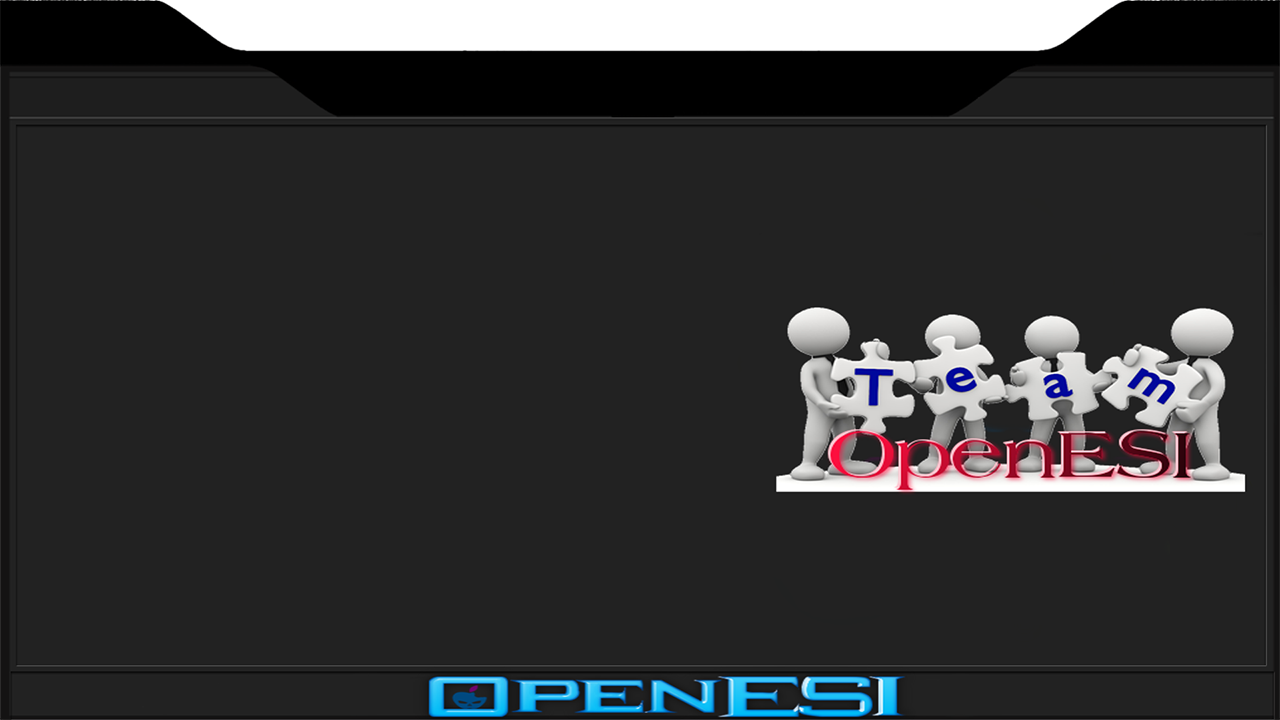
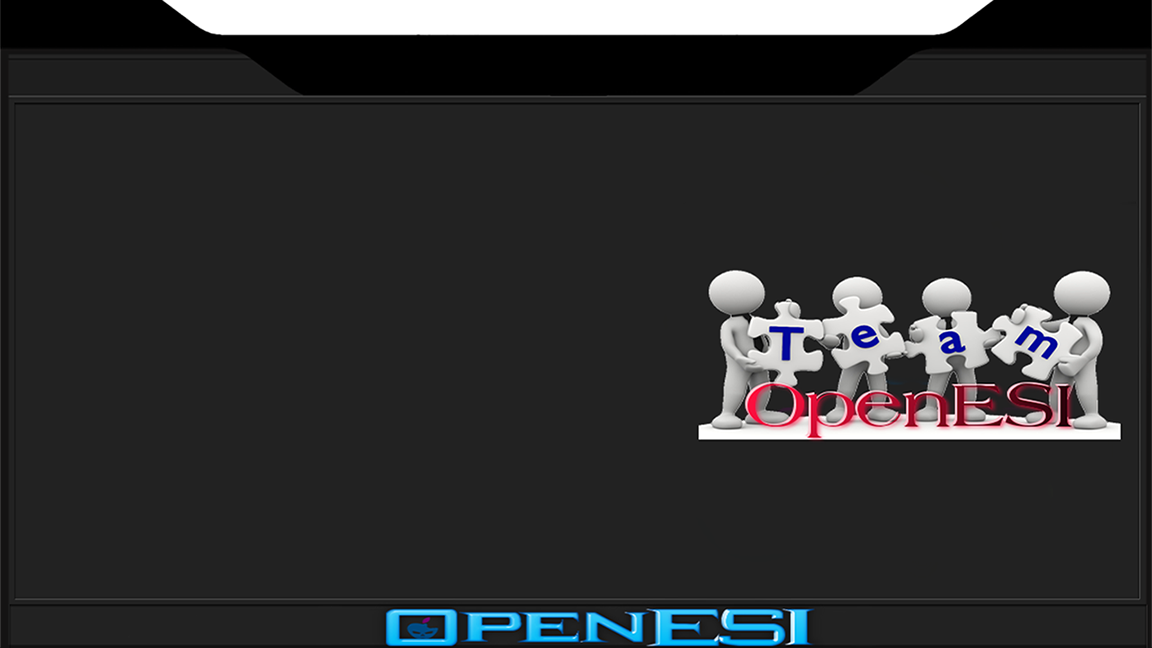
Update png

diff --git a/usr/lib/enigma2/python/Plugins/Extensions/ExtraAddonss/plugin.py b/usr/lib/enigma2/python/Plugins/Extensions/ExtraAddonss/plugin.py
@@ -26,9 +26,9 @@ folder = fold + '/picon'
 if not os.path.exists(folder):
     os.system('mkdir ' + folder)
 currversion = '1.0'
-host = 'aHR0cDovL3d3dy5vcGVuZXNpLmV1L3BhbmVsYWRkb24ueG1s='
+host = 'aHR0cDovL3d3dy5vcGVuZXNpLmV1L3BhbmVsYWRkb25zcy54bWw='
 hostxml = base64.b64decode(host)
[2 lines of base64/hex data omitted]
 ipk = base64.b64decode(ipkurl)
 
 def updateable():
@@ -53,16 +53,16 @@ updateable()
 class addonsupdatesScreen(Screen):
     skin = '''
     <screen name="addonsupdatesScreen" position="center,center" size="1280,720" title="ExtraAddonss" backgroundColor="transparent" flags="wfNoBorder">
-    <widget name="text" position="24,124" size="787,475" font="Regular;22" />
-    <ePixmap position="center,0" size="1280,720" zPosition="-10" pixmap="/usr/lib/enigma2/python/Plugins/Extensions/ExtraAddonss/hd/Addons_news.png" transparent="1" alphatest="on" />
-    <widget source="Title" render="Label" position="179,44" size="916,63" font="Regular; 48" transparent="1" halign="center" valign="center" zPosition="11" />
-    <widget source="global.CurrentTime" render="Label" position="1008,40" size="226,74" font="Regular; 40" valign="center" halign="right" transparent="1" zPosition="1">
+    <widget name="text" position="84,149" size="787,475" font="Regular;22" />
+    <ePixmap position="70,35" size="1149,646" zPosition="-10" pixmap="/usr/lib/enigma2/python/Plugins/Extensions/ExtraAddonss/hd/Addons_news.png" transparent="1" alphatest="on" />
+    <widget source="Title" render="Label" position="142,61" size="916,63" font="Regular; 48" transparent="1" halign="center" valign="center" zPosition="11" />
+    <widget source="global.CurrentTime" render="Label" position="959,70" size="226,74" font="Regular; 40" valign="center" halign="right" transparent="1" zPosition="1">
     <convert type="ClockToText">Format:%H:%M</convert>
     </widget>
-    <widget source="global.CurrentTime" render="Label" position="12,63" size="340,37" transparent="1" zPosition="1" font="Regular; 24" valign="center" halign="left">
+    <widget source="global.CurrentTime" render="Label" position="80,87" size="340,37" transparent="1" zPosition="1" font="Regular; 24" valign="center" halign="left">
         <convert type="ClockToText">Date</convert>
     </widget>
-    <eLabel name="" position="90,669" size="145,50" font="Regular; 28" valign="center" halign="center" text="Exit" zPosition="2" transparent="1" />
+    <eLabel name="" position="134,635" size="145,50" font="Regular; 28" valign="center" halign="center" text="Exit" zPosition="2" transparent="1" />
     </screen>
 
     '''
@@ -102,16 +102,16 @@ class addonsupdatesScreen(Screen):
 class AboutScreen(Screen):
     skin = '''
     <screen flags="wfNoBorder" name="AboutScreen" position="center,center" size="1280,720" title="ExtraAddonss" backgroundColor="transparent">
-    <widget name="text" position="24,124" size="787,475" font="Regular;22" zPosition="1" />
-    <ePixmap position="0,0" size="1280,720" zPosition="-10" pixmap="/usr/lib/enigma2/python/Plugins/Extensions/ExtraAddonss/hd/Addons_news.png" transparent="1" alphatest="on" />
-    <widget source="Title" render="Label" position="179,44" size="916,63" font="Regular; 48" transparent="1" halign="center" valign="center" zPosition="11" />
-    <widget source="global.CurrentTime" render="Label" position="1008,40" size="226,74" font="Regular; 40" valign="center" halign="right" transparent="1" zPosition="1">
+    <widget name="text" position="84,149" size="787,475" font="Regular;22" zPosition="1" />
+    <ePixmap position="70,35" size="1149,646" zPosition="-10" pixmap="/usr/lib/enigma2/python/Plugins/Extensions/ExtraAddonss/hd/Addons_news.png" transparent="1" alphatest="on" />
+    <widget source="Title" render="Label" position="142,61" size="916,63" font="Regular; 48" transparent="1" halign="center" valign="center" zPosition="11" />
+    <widget source="global.CurrentTime" render="Label" position="959,70" size="226,74" font="Regular; 40" valign="center" halign="right" transparent="1" zPosition="1">
     <convert type="ClockToText">Format:%H:%M</convert>
     </widget>
-    <widget source="global.CurrentTime" render="Label" position="12,63" size="340,37" transparent="1" zPosition="1" font="Regular; 24" valign="center" halign="left">
+    <widget source="global.CurrentTime" render="Label" position="80,87" size="340,37" transparent="1" zPosition="1" font="Regular; 24" valign="center" halign="left">
         <convert type="ClockToText">Date</convert>
     </widget>
-    <eLabel name="" position="70,669" size="145,50" font="Regular; 28" valign="center" halign="center" text="Exit" zPosition="2" transparent="1" />
+    <eLabel name="" position="134,635" size="145,50" font="Regular; 28" valign="center" halign="center" text="Exit" zPosition="2" transparent="1" />
     </screen>
     '''
 #skin fhd
@@ -128,21 +128,21 @@ class AboutScreen(Screen):
 class AddonsGroups(Screen):
     skin = '''
     <screen name="AddonsGroups" position="0,0" size="1280,720" title="ExtraAddonss" backgroundColor="transparent" flags="wfNoBorder">
-    <widget source="Title" render="Label" position="179,44" size="916,63" font="Regular; 48" transparent="1" halign="center" valign="center" zPosition="11" />
-    <widget source="global.CurrentTime" render="Label" position="1008,40" size="226,74" font="Regular; 40" valign="center" halign="right" transparent="1" zPosition="1">
-        <convert type="ClockToText">Format:%H:%M</convert>
+    <widget source="Title" render="Label" position="142,61" size="916,63" font="Regular; 48" transparent="1" halign="center" valign="center" zPosition="11" />
+    <widget source="global.CurrentTime" render="Label" position="959,70" size="226,74" font="Regular; 40" valign="center" halign="right" transparent="1" zPosition="1">
+    <convert type="ClockToText">Format:%H:%M</convert>
     </widget>
-    <widget source="global.CurrentTime" render="Label" position="12,63" size="340,37" transparent="1" zPosition="1" font="Regular; 24" valign="center" halign="left">
+    <widget source="global.CurrentTime" render="Label" position="80,87" size="340,37" transparent="1" zPosition="1" font="Regular; 24" valign="center" halign="left">
         <convert type="ClockToText">Date</convert>
     </widget>
-    <widget name="key_red" position="1,668" zPosition="5" size="329,45" valign="center" halign="center" font="Regular; 32" transparent="1" />
-    <widget name="key_yellow" position="315,668" zPosition="5" size="329,45" valign="center" halign="center" font="Regular; 32" transparent="1" foregroundColor="white" />
-    <widget name="key_blue" position="632,668" zPosition="5" size="329,45" valign="center" halign="center" font="Regular; 32" transparent="1" foregroundColor="white" />
-    <widget font="Regular; 32" foregroundColor="white" halign="center" name="" position="935,614" size="329,45" transparent="1" valign="center" zPosition="5" backgroundColor="black" />
-    <widget name="list" position="24,124" size="841,467" font="Regular;24" itemHeight="40" scrollbarMode="showOnDemand" zPosition="1" />
-    <widget name="info" position="20,607" zPosition="4" size="307,32" font="Regular; 22" foregroundColor="white" transparent="1" halign="right" valign="center" />
-    <widget name="fspace" position="327,607" zPosition="5" size="600,32" font="Regular;22" foregroundColor="white" transparent="1" halign="left" valign="center" />
-    <ePixmap position="center,0" size="1280,720" zPosition="0" pixmap="/usr/lib/enigma2/python/Plugins/Extensions/ExtraAddonss/hd/AddonsGroups.png" transparent="1" alphatest="on" />
+    <widget name="key_red" position="52,639" zPosition="5" size="329,45" valign="center" halign="center" font="Regular; 32" transparent="1" />
+    <widget name="key_yellow" position="329,636" zPosition="5" size="329,45" valign="center" halign="center" font="Regular; 32" transparent="1" foregroundColor="white" />
+    <widget name="key_blue" position="617,635" zPosition="5" size="329,45" valign="center" halign="center" font="Regular; 32" transparent="1" foregroundColor="white" />
+    <widget font="Regular; 32" foregroundColor="white" halign="center" name="" position="872,585" size="329,45" transparent="1" valign="center" zPosition="5" backgroundColor="black" />
+    <widget name="list" position="84,149" size="782,442" font="Regular;24" itemHeight="40" scrollbarMode="showOnDemand" zPosition="1" />
+    <widget name="info" position="82,596" zPosition="4" size="307,32" font="Regular; 22" foregroundColor="white" transparent="1" halign="right" valign="center" />
+    <widget name="fspace" position="388,596" zPosition="5" size="600,32" font="Regular;22" foregroundColor="white" transparent="1" halign="left" valign="center" />
+    <ePixmap position="70,35" size="1149,646" zPosition="0" pixmap="/usr/lib/enigma2/python/Plugins/Extensions/ExtraAddonss/hd/AddonsGroups.png" transparent="1" alphatest="on" />
     </screen>
     '''
     
@@ -240,16 +240,16 @@ class AddonsGroups(Screen):
 class IpkgPackages(Screen):
     skin ='''
     <screen name="IpkgPackages" position="center,center" size="1280,720" title="www.openesi.eu" flags="wfNoBorder" backgroundColor="transparent">
-    <widget source="Title" render="Label" position="179,44" size="916,63" font="Regular; 48" transparent="1" halign="center" valign="center" zPosition="11" />
-    <widget source="global.CurrentTime" render="Label" position="1008,40" size="226,74" font="Regular; 40" valign="center" halign="right" transparent="1" zPosition="1">
-        <convert type="ClockToText">Format:%H:%M</convert>
+    <widget source="Title" render="Label" position="142,61" size="916,63" font="Regular; 48" transparent="1" halign="center" valign="center" zPosition="11" />
+    <widget source="global.CurrentTime" render="Label" position="959,70" size="226,74" font="Regular; 40" valign="center" halign="right" transparent="1" zPosition="1">
+    <convert type="ClockToText">Format:%H:%M</convert>
     </widget>
-    <widget source="global.CurrentTime" render="Label" position="12,63" size="340,37" transparent="1" zPosition="1" font="Regular; 24" valign="center" halign="left">
+    <widget source="global.CurrentTime" render="Label" position="80,87" size="340,37" transparent="1" zPosition="1" font="Regular; 24" valign="center" halign="left">
         <convert type="ClockToText">Date</convert>
     </widget>
-    <widget name="countrymenu" position="24,124" size="731,475" font="Regular; 24" itemHeight="40" scrollbarMode="showOnDemand" zPosition="1" />
-    <ePixmap position="344,600" zPosition="4" size="607,61" pixmap="/usr/lib/enigma2/python/Plugins/Extensions/ExtraAddonss/hd/extra.png.png" transparent="1" alphatest="on" />\n\t                  <ePixmap position="0,0" zPosition="-10" size="1280,720" pixmap="/usr/lib/enigma2/python/Plugins/Extensions/ExtraAddonss/hd/Addons.png" transparent="1" alphatest="on" />
-    </screen>    
+    <widget name="countrymenu" position="84,149" size="658,482" font="Regular; 24" itemHeight="40" scrollbarMode="showOnDemand" zPosition="1" />
+    <ePixmap position="381,684" zPosition="4" size="607,61" pixmap="/usr/lib/enigma2/python/Plugins/Extensions/ExtraAddonss/hd/extra.png.png" transparent="1" alphatest="on" />\n\t                  <ePixmap zPosition="-10" position="70,35" size="1149,646" pixmap="/usr/lib/enigma2/python/Plugins/Extensions/ExtraAddonss/hd/Addons.png" transparent="1" alphatest="on" />
+    </screen>   
     '''
 #skin fhd
 #    skin = '<screen name="IpkgPackages" position="center,center" size="1920,1080" title="www.openesi.eu" flags="wfNoBorder" backgroundColor="transparent">\n<widget source="Title" render="Label" position="506,102" size="916,63" font="Regular; 48" transparent="1" halign="center" valign="center" zPosition="11" />\n<widget source="global.CurrentTime" render="Label" position="1627,109" size="226,74" font="Regular; 65" valign="center" halign="right" transparent="1">\n      <convert type="ClockToText">Format:%H:%M</convert>\n    </widget>\n<widget source="global.CurrentTime" render="Label" position="65,129" size="340,37" transparent="1" zPosition="1" font="Regular; 26" valign="center" halign="left">\n      <convert type="ClockToText">Date</convert>\n    </widget>\n\t\t\t  <widget name="countrymenu" position="65,210" size="1020,720" font="Regular;28" itemHeight="40" scrollbarMode="showOnDemand" zPosition="1" />\n\t                  <ePixmap position="65,936" zPosition="4" size="607,61" pixmap="/usr/lib/enigma2/python/Plugins/Extensions/ExtraAddonss/extra.png.png" transparent="1" alphatest="on" />\n\t                  <ePixmap position="0,0" zPosition="-10" size="1920,1080" pixmap="/usr/lib/enigma2/python/Plugins/Extensions/ExtraAddonss/Addons.png" transparent="1" alphatest="on" />\n        \t</screen>'
